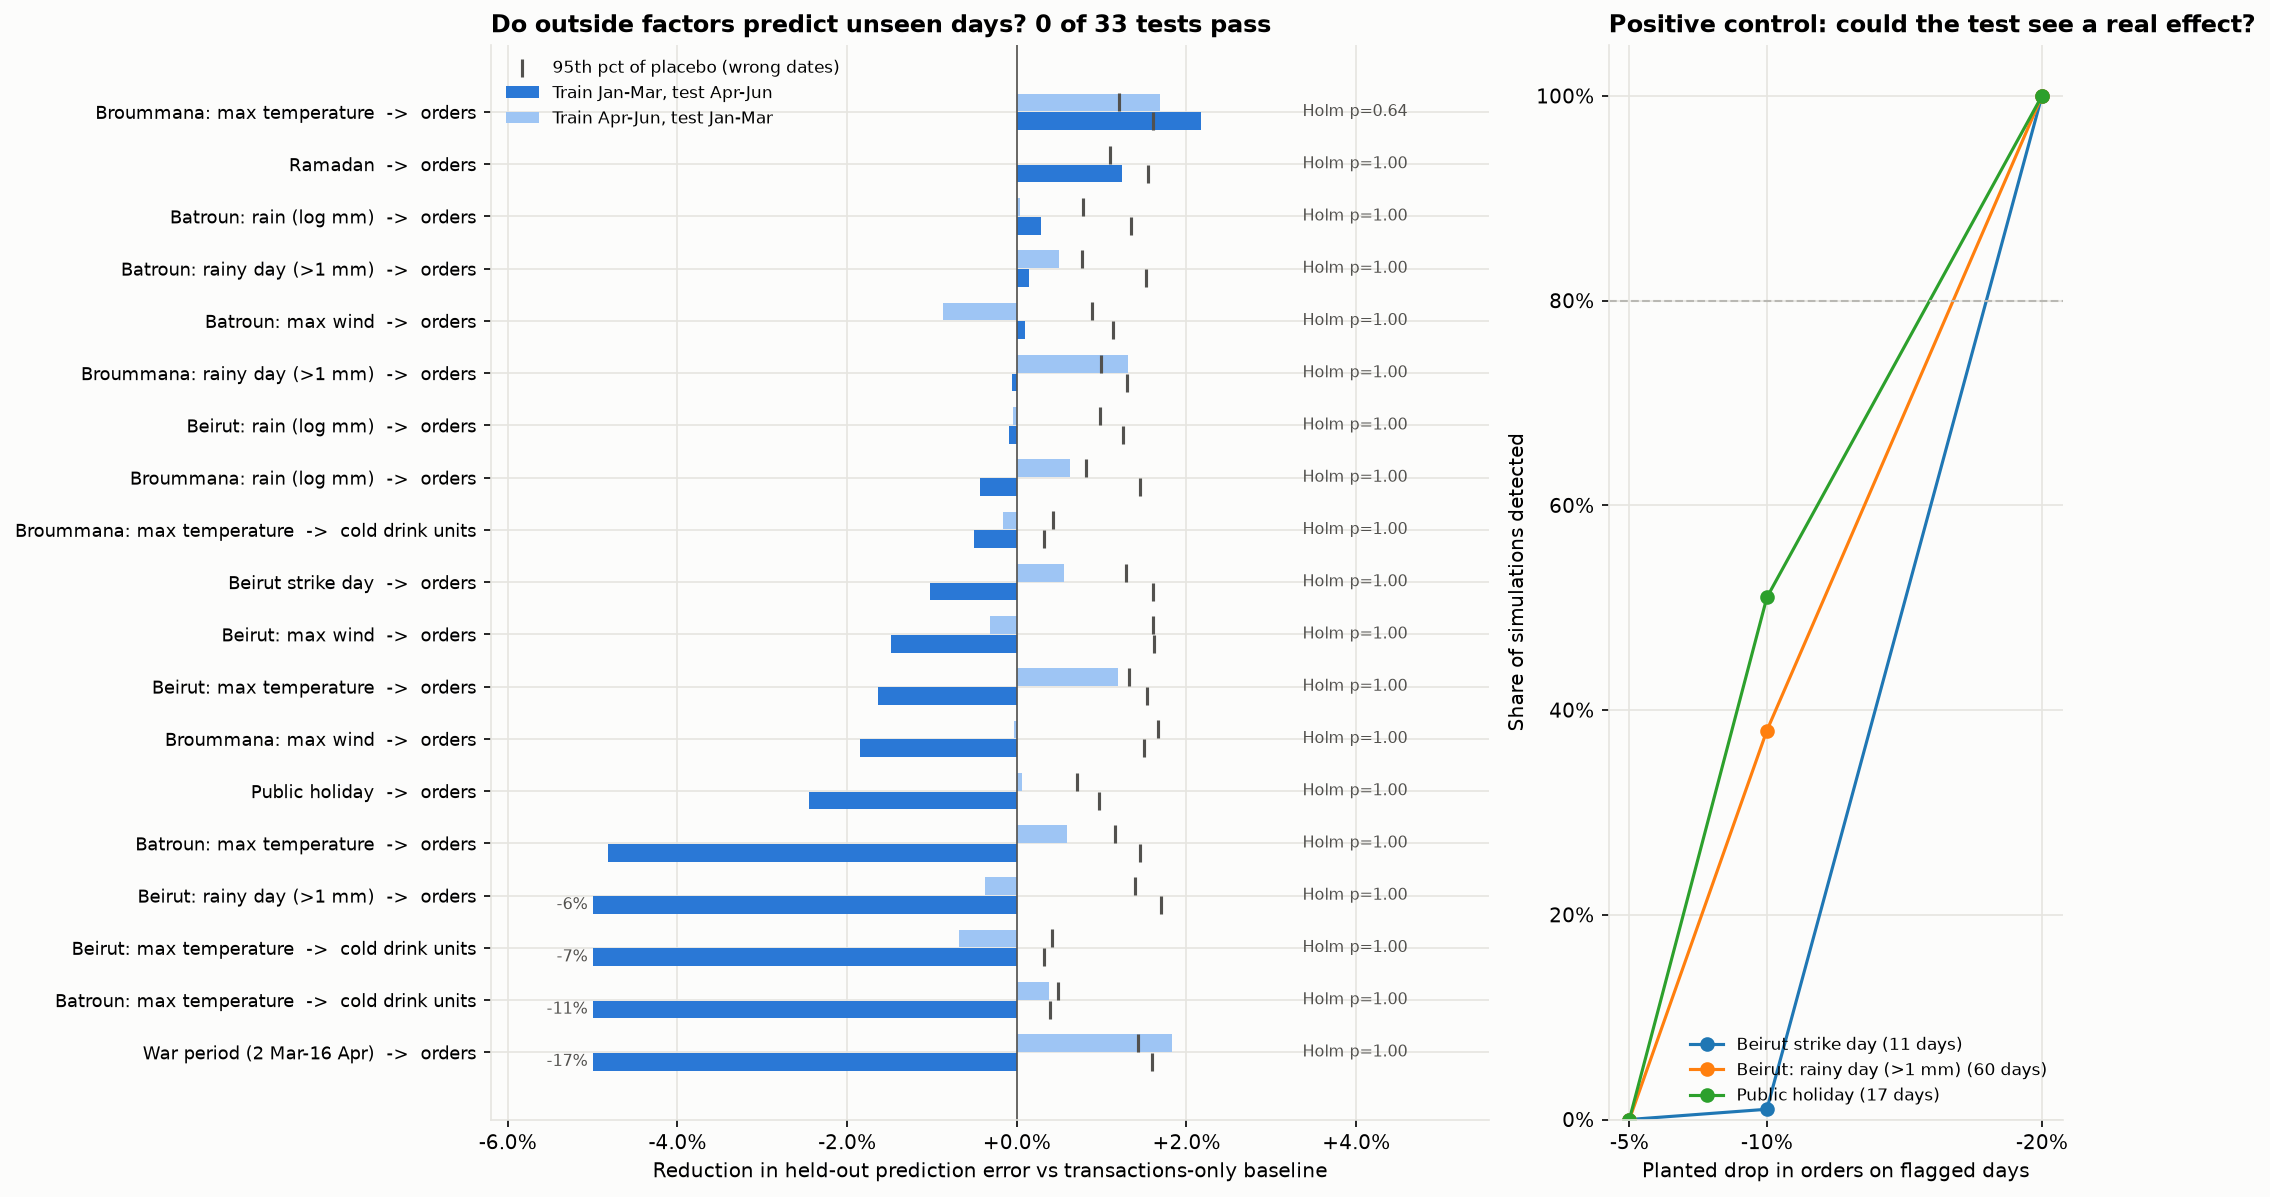
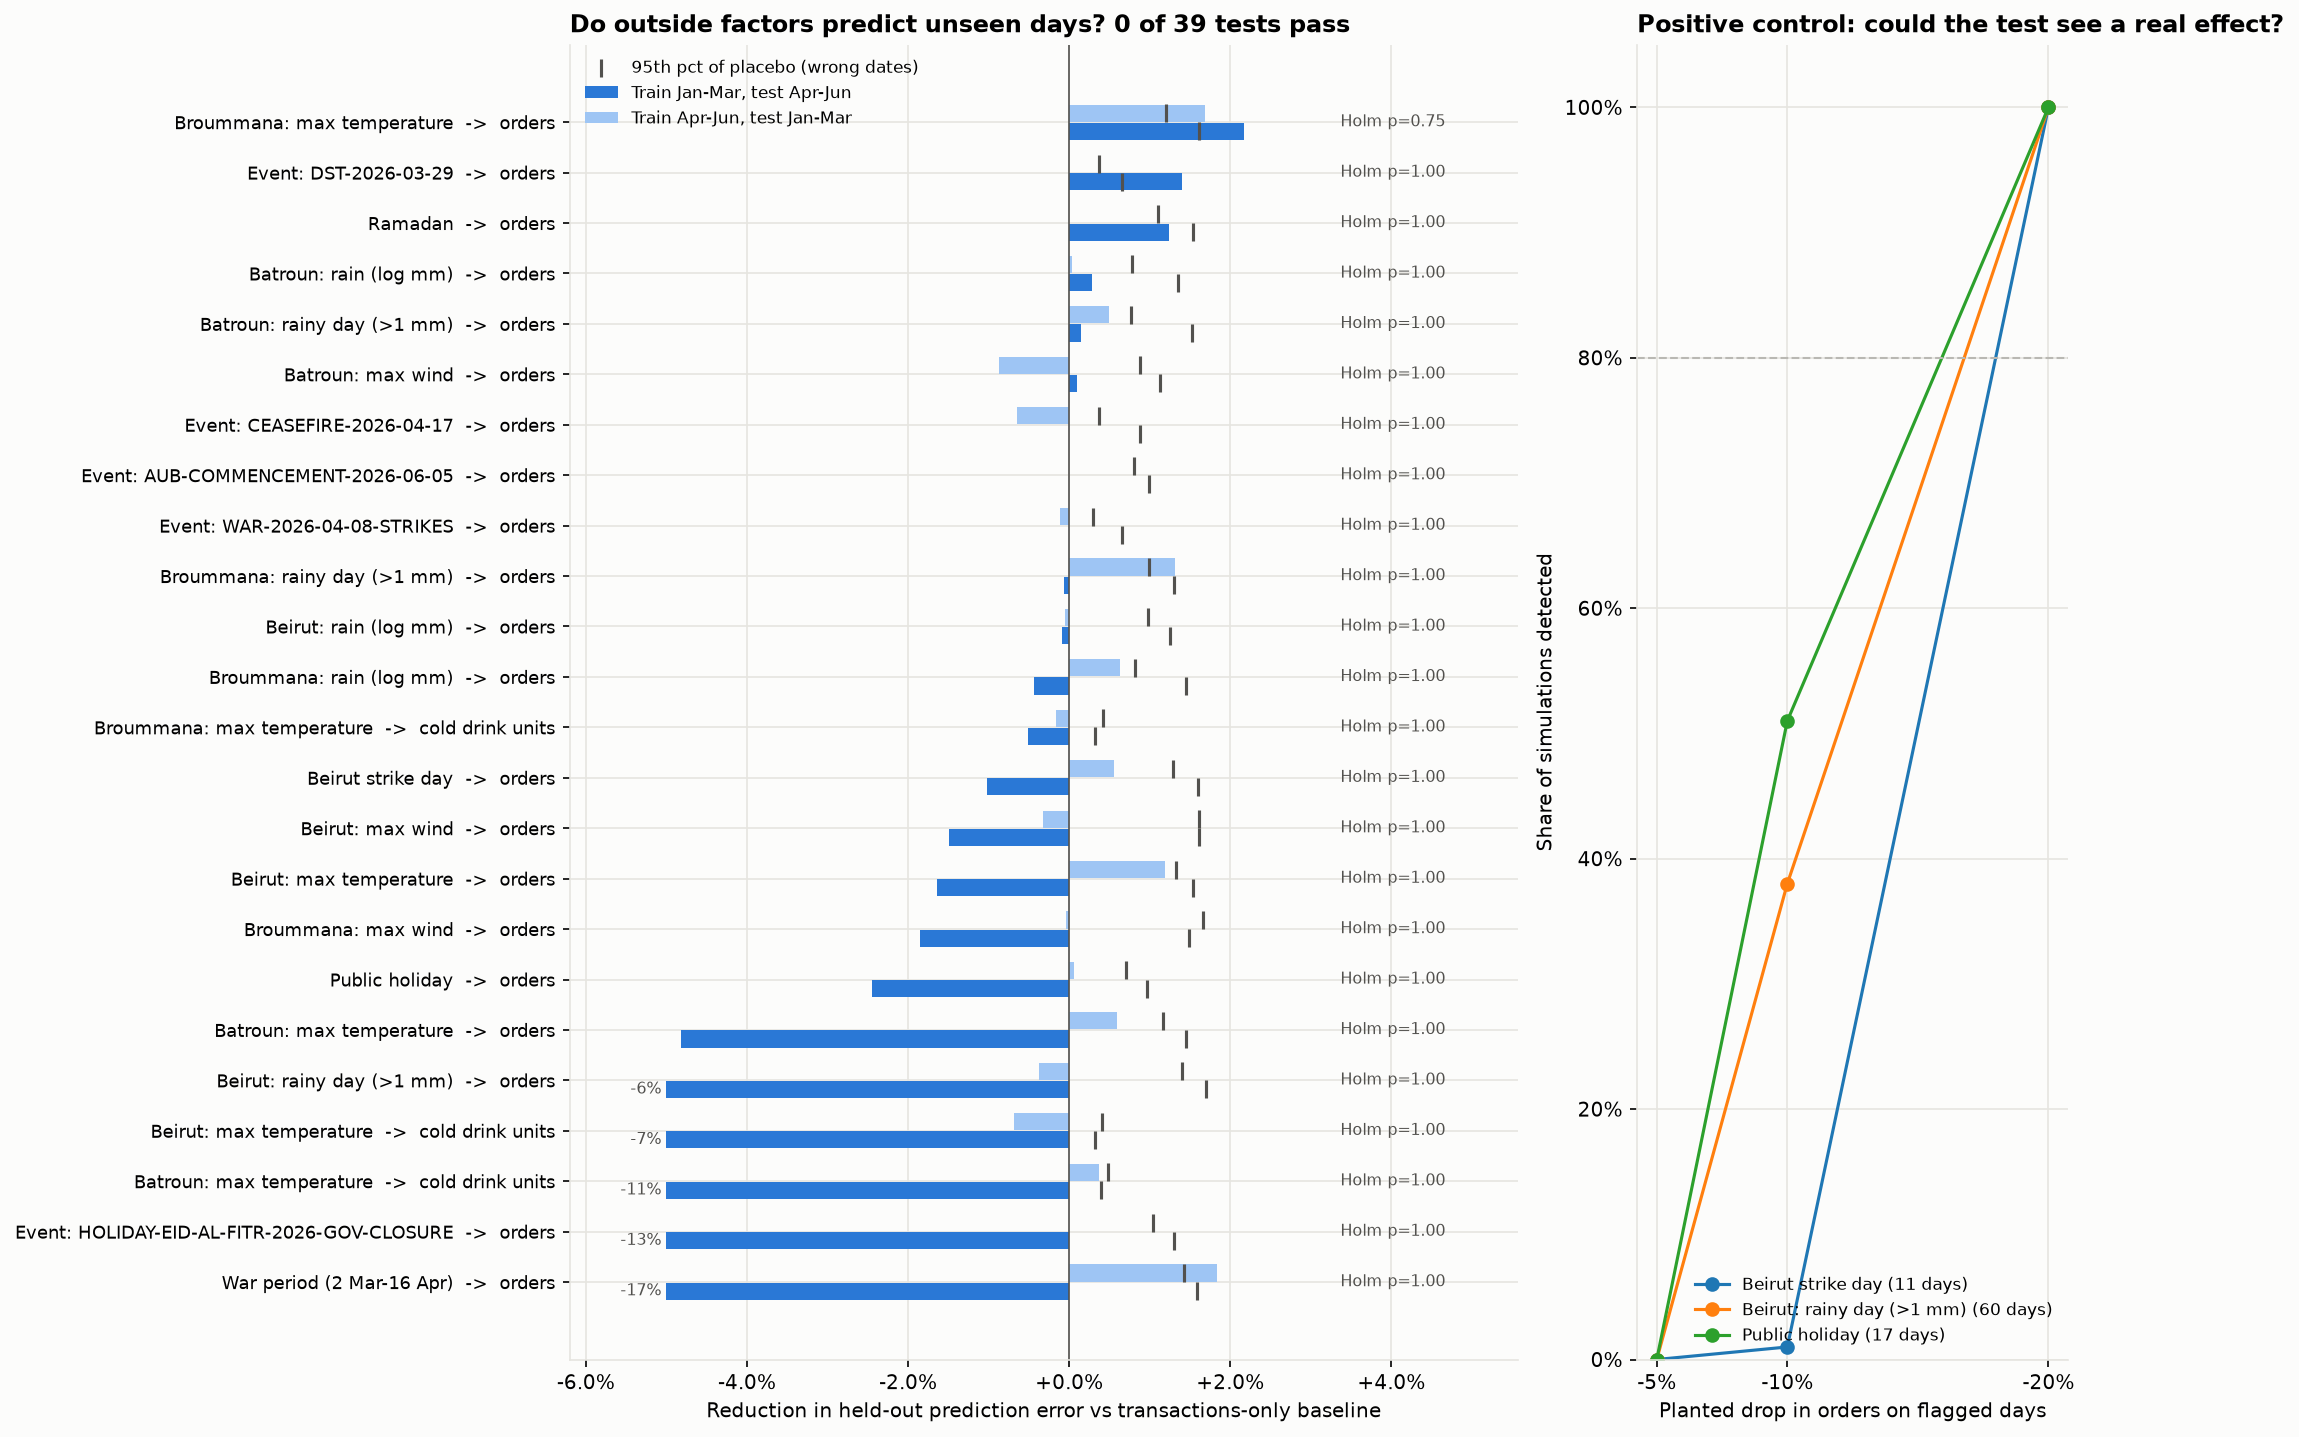
Run teammate 1's events through the held-out factor test
- src/external_factor_test.py: adds five short events from
  data/external/external_events.json (April 8 strikes, first ceasefire day,
  AUB commencement, March 29 clock change, Eid al-Fitr closure) as daily
  flags, plus an evening-orders target for the evening event; records
  flagged days per half; documents that one-half events cannot pass
- reports/external_factor_test.*, figure and app/evidence_data.js
  regenerated by the script: 0 of 39 tests pass
- external_events.json: held-out result recorded for each tested event
  ('not supported; not detectable under this protocol'), never 'no effect'
- README and ANALYSIS.md: 33 -> 39 tests, strongest Holm p 0.64 -> 0.75

diff --git a/app/evidence_data.js b/app/evidence_data.js
@@ -1,2 +1,2 @@
 // Generated by src/external_factor_test.py. Do not edit by hand; rerun the script.
[2 lines of base64/hex data omitted]

diff --git a/src/external_factor_test.py b/src/external_factor_test.py
@@ -98,6 +98,7 @@ TARGETS = {
     "cold_drink_units": daily(raw[raw["Category"].isin(COLD)], "units"),
     "hot_coffee_units": daily(raw[raw["Category"].isin(HOT)], "units"),
     "takeaway_orders": daily(raw[raw["Order Type"] == "Takeaway"], "orders"),
+    "evening_orders": daily(raw[pd.to_datetime(raw["Time"], format="%H:%M:%S").dt.hour >= 18], "orders"),
 }
 
 
@@ -119,6 +120,24 @@ factors["Ramadan"] = pd.Series(((DAYS >= RAMADAN[0]) & (DAYS <= RAMADAN[1])).ast
 factors["War period (2 Mar-16 Apr)"] = pd.Series(((DAYS >= WAR[0]) & (DAYS <= WAR[1])).astype(float), DAYS)
 factors["Beirut strike day"] = pd.Series(DAYS.isin(pd.to_datetime(BEIRUT_STRIKES)).astype(float), DAYS)
 
+# Teammate 1 event list (data/external/external_events.json). Only short events are tested: long windows
+# (displacement, all holidays, the inflation shock) cover most of a half and are confounded with the trend.
+# Not-found events stay alerts and are not tested.
+EVENTS_FILE = EXT / "external_events.json"
+TESTABLE_EVENTS = ["WAR-2026-04-08-STRIKES", "CEASEFIRE-2026-04-17", "AUB-COMMENCEMENT-2026-06-05",
+                   "DST-2026-03-29", "HOLIDAY-EID-AL-FITR-2026-GOV-CLOSURE"]
+EVENT_TARGETS = {}
+_events = {e["event_id"]: e for e in json.loads(EVENTS_FILE.read_text(encoding="utf-8"))["events"]}
+for eid in TESTABLE_EVENTS:
+    e = _events[eid]
+    start = pd.Timestamp(e["event_start"][:10])
+    end = pd.Timestamp((e["event_end"] or e["event_start"])[:10])
+    if eid == "CEASEFIRE-2026-04-17":
+        end = start  # the first day of the ceasefire; the 10-day window is in the event list
+    name = f"Event: {eid}"
+    factors[name] = pd.Series(((DAYS >= start) & (DAYS <= end)).astype(float), DAYS)
+    EVENT_TARGETS[name] = ["orders", "evening_orders"] if e.get("affected_daypart") == "evening" else ["orders"]
+
 # Which targets each factor is tested on (a mechanism, not a fishing trip).
 PLAN = {}
 for name in factors:
@@ -128,6 +147,8 @@ for name in factors:
         PLAN[name] = ["orders", "takeaway_orders"]
     elif name in ("War period (2 Mar-16 Apr)", "Beirut strike day"):
         PLAN[name] = ["orders", "takeaway_orders"]
+    elif name in EVENT_TARGETS:
+        PLAN[name] = EVENT_TARGETS[name]
     else:
         PLAN[name] = ["orders"]
 
@@ -220,7 +241,9 @@ null_cache = {}
 for fname, series in factors.items():
     for tname in PLAN[fname]:
         y = TARGETS[tname].to_numpy()
-        rec = {"factor": fname, "target": tname}
+        rec = {"factor": fname, "target": tname,
+               "flagged_days_jan_mar": int(((series.index < SPLIT) & (series > 0)).sum()) if series.isin([0, 1]).all() else None,
+               "flagged_days_apr_jun": int(((series.index >= SPLIT) & (series > 0)).sum()) if series.isin([0, 1]).all() else None}
         for direction in HALF:
             g, coef = gain(tname, y, factor_column(series), direction)
             null = np.array([gain(tname, y, factor_column(shifted(series, k)), direction)[0] for k in SHIFTS])
@@ -302,6 +325,12 @@ meta = {
         "Passing shows predictive association, not causation; failing does not prove zero effect "
         "(see positive_control for detectable sizes).",
         "These factors are not inputs to the strict model (src/strict_model.py).",
+        "Event-list factors whose flagged days all fall in one half cannot pass by construction: the factor is "
+        "all zeros in either the training or the test half, so the factor cannot be scored on unseen flagged days. "
+        "A non-zero gain for such a factor only reflects how removing its training days changes the baseline fit "
+        "(for example the March 29 and Eid rows), not prediction. Their rows record that the test cannot see them, "
+        "not that the event had no effect (see notebooks/09_event_checks.ipynb "
+        "for the in-sample screen with a false-discovery correction).",
     ],
     "results": res.to_dict(orient="records"),
     "positive_control": power.to_dict(orient="records"),
@@ -312,6 +341,7 @@ meta = {
         "event_sources": ["https://en.wikipedia.org/wiki/2026_in_Lebanon",
                           "https://en.wikipedia.org/wiki/Timeline_of_the_2026_Lebanon_war"],
         "holiday_source": "notebooks/03_holidays.ipynb HOLIDAYS list",
+        "event_list": "data/external/external_events.json (teammate 1), events: " + ", ".join(TESTABLE_EVENTS),
         "quick_mode": QUICK,
         "numpy": np.__version__, "pandas": pd.__version__,
     },

diff --git a/README.md b/README.md
@@ -275,21 +275,22 @@ Specific category pairs do *not* go together beyond chance: the strongest lift i
 
 This checks whether an outside factor predicts sales on days the model never saw. In-sample correlations are not enough.
 
-- **Factors:** temperature, rain, rainy-day flag and wind at Beirut, Batroun and Broummana; public holidays (the notebook 03 list); Ramadan; the war period (March 2-April 16); and 11 Beirut strike days.
-- **Targets:** each factor is tested only on targets with a plausible mechanism (orders, iced/hot drink units, takeaway orders), giving 33 tests.
+- **Factors:** temperature, rain, rainy-day flag and wind at Beirut, Batroun and Broummana; public holidays (the notebook 03 list); Ramadan; the war period (March 2-April 16); 11 Beirut strike days; and five short events from teammate 1's event list (`data/external/external_events.json`): the April 8 strikes, the first ceasefire day, AUB commencement (June 5-6), the March 29 clock change and the Eid al-Fitr closure (March 20-23).
+- **Targets:** each factor is tested only on targets with a plausible mechanism (orders, iced/hot drink units, takeaway orders, evening orders), giving 39 tests.
 - **Gain:** the baseline is a transactions-only Poisson model of branch × weekday + branch growth, fitted on Jan-Mar and scored on Apr-Jun (the EVALUATION.md split), then the reverse. Gain is the reduction in held-out Poisson deviance when the factor is added.
-- **Placebo:** the gain must beat versions of the factor shifted to the wrong dates (154 circular shifts of 14-167 days), with a Holm correction across all 33 tests.
+- **Placebo:** the gain must beat versions of the factor shifted to the wrong dates (154 circular shifts of 14-167 days), with a Holm correction across all 39 tests.
 - **Positive control:** a known drop is planted in the real counts, and we record how often the test detects it.
 
 | Result | Value |
 |---|---|
-| Tests passing (gain in both directions, Holm p < 0.05) | **0 of 33** |
-| Strongest candidate | Broummana max temperature → orders: +2.2% / +1.7% held-out gain, raw p 0.006 / 0.019, **Holm p 0.64** |
+| Tests passing (gain in both directions, Holm p < 0.05) | **0 of 39** |
+| Strongest candidate | Broummana max temperature → orders: +2.2% / +1.7% held-out gain, raw p 0.006 / 0.019, **Holm p 0.75** |
 | War period → orders | −16.5% held-out gain forward (it hurts the forecast), +1.8% reverse; not supported |
 | Planted drop detected (rainy days, holidays) | −20%: 100% · −10%: 38-51% · −5%: 0% |
 | Planted drop detected (11 strike days) | −20%: 100% · −10%: 1% |
+| Event-list factors (5 events, 6 tests) | Not testable by this rule: each event's days fall in one half only, so it can't be scored on unseen flagged days. The in-sample screen with a false-discovery correction is in notebook 09 |
 
-**Interpretation:** none of these factors passes this particular two-direction/Holm rule. The planted controls show high detection for the specified 20% scenarios, not a guarantee of power against every real 20% effect; smaller, local, menu or timing effects remain possible. The strongest single result disappears after correcting for 33 tests. The expanded [context research](EXTERNAL_CONTEXT.md) tests different mechanisms and keeps its associations and forward predictive comparisons separate from this stronger pass rule.
+**Interpretation:** none of these factors passes this particular two-direction/Holm rule. The planted controls show high detection for the specified 20% scenarios, not a guarantee of power against every real 20% effect; smaller, local, menu or timing effects remain possible. The strongest single result disappears after correcting for 39 tests. The expanded [context research](EXTERNAL_CONTEXT.md) tests different mechanisms and keeps its associations and forward predictive comparisons separate from this stronger pass rule.
 
 **Limits:** weather is realized weather, so this is a retrospective test with perfect weather knowledge. Branch locations are unverified. Conflict dates were chosen after the fact. Factor effects are shared across branches, with no branch interactions. Passing would show predictive association, not causation. None of these factors enter the strict model. Outputs: `reports/external_factor_test.{csv,json}` and `reports/figures/external_factor_holdout.png`. Run `python src/external_factor_test.py`, or add `--quick` for a quick run. The external-evidence teammate can add a factor by adding one daily series to `factors` and its targets to `PLAN`.
 

diff --git a/ANALYSIS.md b/ANALYSIS.md
@@ -44,7 +44,7 @@ Average order value stayed at about $9.00 from January to June, and **53.9% of o
 
 Daily demand follows a stable pattern: orders per day grew **57%** from January to June, **Tuesday is about 1.53 times a normal weekday** (Monday and Wednesday–Friday; every one of the 26 Tuesdays is above a typical day) and the busiest hour is 21:00. This is what the team's preparation planner uses (see the [model card](MODEL_CARD.md)).
 
-The evidence for this is now tested on data the model hadn't seen: fitted on January–March and scored on April–June, **branch + growth trend + weekday explain 92.7% of daily orders**, against a ceiling of 93.4% set by customers arriving at random. That leaves under 1% for anything else, and **0 of 33 held-out tests of outside factors** (weather, holidays, Ramadan, the war period, strike days) pass ([`reports/why_drivers.json`](reports/why_drivers.json), [`reports/external_factor_test.json`](reports/external_factor_test.json)). This doesn't prove outside events have no effect: branch locations aren't confirmed, so exposure is unknown, and small or one-day effects can't be detected with this data.
+The evidence for this is now tested on data the model hadn't seen: fitted on January–March and scored on April–June, **branch + growth trend + weekday explain 92.7% of daily orders**, against a ceiling of 93.4% set by customers arriving at random. That leaves under 1% for anything else, and **0 of 39 held-out tests of outside factors** (weather, holidays, Ramadan, the war period, strike days and five events from the event list) pass ([`reports/why_drivers.json`](reports/why_drivers.json), [`reports/external_factor_test.json`](reports/external_factor_test.json)). This doesn't prove outside events have no effect: branch locations aren't confirmed, so exposure is unknown, and small or one-day effects can't be detected with this data.
 
 ## For the team (next actions)
 
